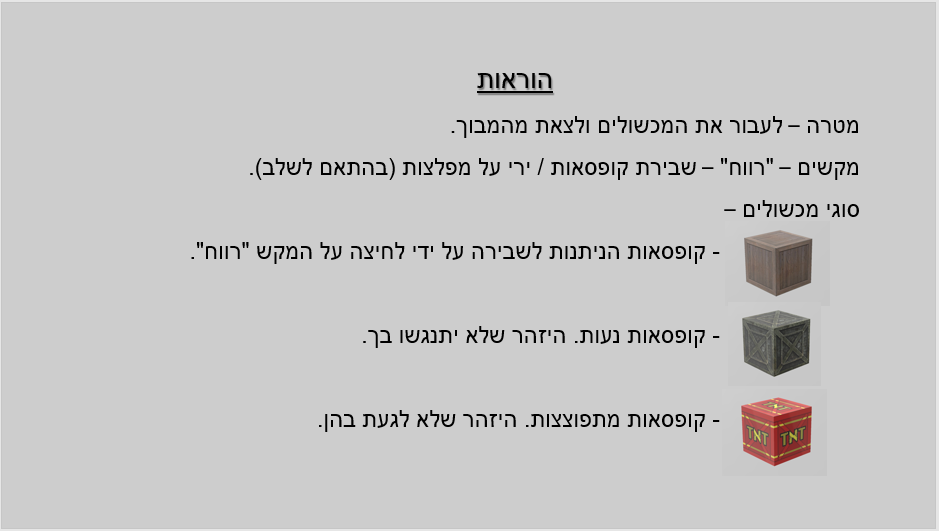
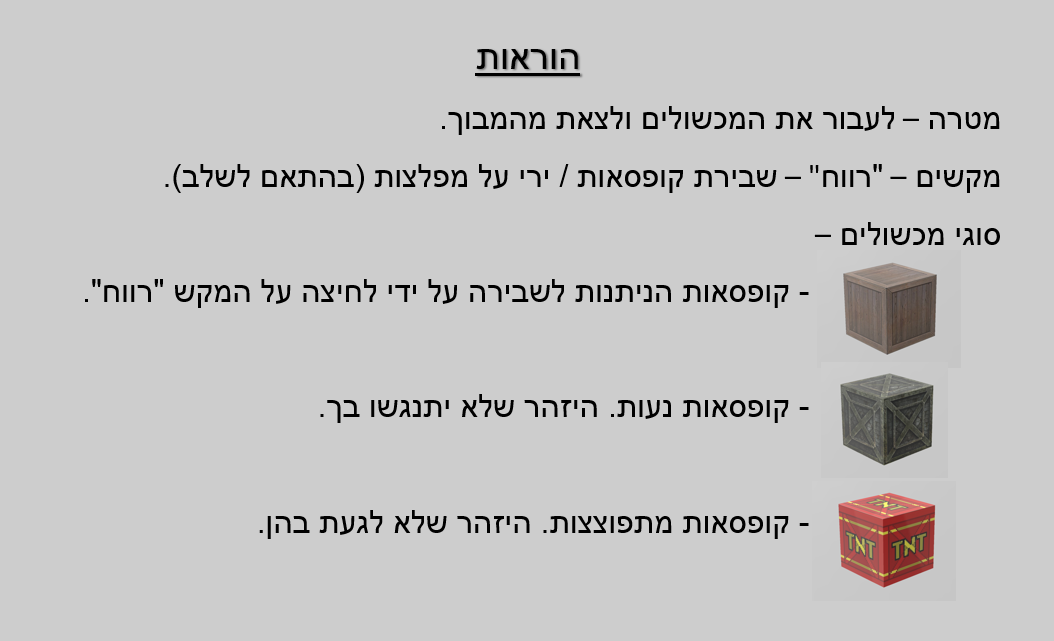
instruction window.

Changed region(s): [[0.0927, 0.0603, 0.9574, 0.7232], [0.0, 0.0, 1.0, 1.0], [0.2471, 0.7533, 0.8956, 0.9341]]

diff --git a/src/Scene/SceneBuilder.java b/src/Scene/SceneBuilder.java
@@ -13,6 +13,7 @@ import Enums.MovementEnum;
 import Enums.SteerEnum;
 import Scene.Shimon.ObjectDisplayer;
 import Scene.Shimon.ObjectLoader;
+import View.ViewManager;
 import WorldObjects.*;
 import com.jogamp.newt.Window;
 import com.jogamp.newt.event.KeyAdapter;
@@ -30,6 +31,7 @@ import com.jogamp.opengl.util.texture.TextureIO;
 
 import java.io.File;
 import java.io.IOException;
+import java.sql.SQLException;
 
 public class SceneBuilder extends KeyAdapter implements GLEventListener {
 
@@ -172,7 +174,12 @@ public class SceneBuilder extends KeyAdapter implements GLEventListener {
             System.exit(0);
         }
         else if(e.getKeyCode() == KeyEvent.VK_F1) {
-            System.out.println("ADD INSTRUCTIONS");
+            try {
+                ViewManager manager = ViewManager.getInstance();
+                manager.showInstructions();
+            } catch (Exception e1) {
+                e1.printStackTrace();
+            }
         }
         else if(e.getKeyCode() == KeyEvent.VK_F2) {
             CollisionHandler.nextLevel();

diff --git a/src/View/Instructions.java b/src/View/Instructions.java
@@ -1,0 +1,21 @@
+package View;
+import javax.swing.*;
+
+public class Instructions {
+
+    protected void instructions(){
+        JFrame frame = new JFrame();
+        frame.setSize(800, 600);
+
+        //Create Image and set in the given frame
+        Main.CreateImage.createImage("resources/pics/instructions.PNG", frame);
+
+        frame.setLocationRelativeTo(null);
+        frame.setDefaultCloseOperation(JFrame.DISPOSE_ON_CLOSE);
+        frame.setTitle("Instructions");
+        frame.setResizable(false);
+        frame.validate();
+        frame.setLayout(null);
+        frame.setVisible(true);
+    }
+}

diff --git a/src/View/Menu.java b/src/View/Menu.java
@@ -10,7 +10,7 @@ import java.sql.SQLException;
 
 public class Menu {
 
-    protected static void menu_window(String picPath, String labelText) throws IOException, SQLException {
+    protected void menu_window(String picPath, String labelText) throws IOException, SQLException {
         JFrame frame = new JFrame();
         ViewManager manager = ViewManager.getInstance();
         manager.setMenuFrame(frame);

diff --git a/src/View/ViewManager.java b/src/View/ViewManager.java
@@ -66,6 +66,11 @@ public class ViewManager {
         }
     }
 
+    public void showInstructions() {
+        Instructions instructions = new Instructions();
+        instructions.instructions();
+    }
+
     protected void startGame() throws IOException, SQLException {
         Game game = new Game();
         game.game_window();
